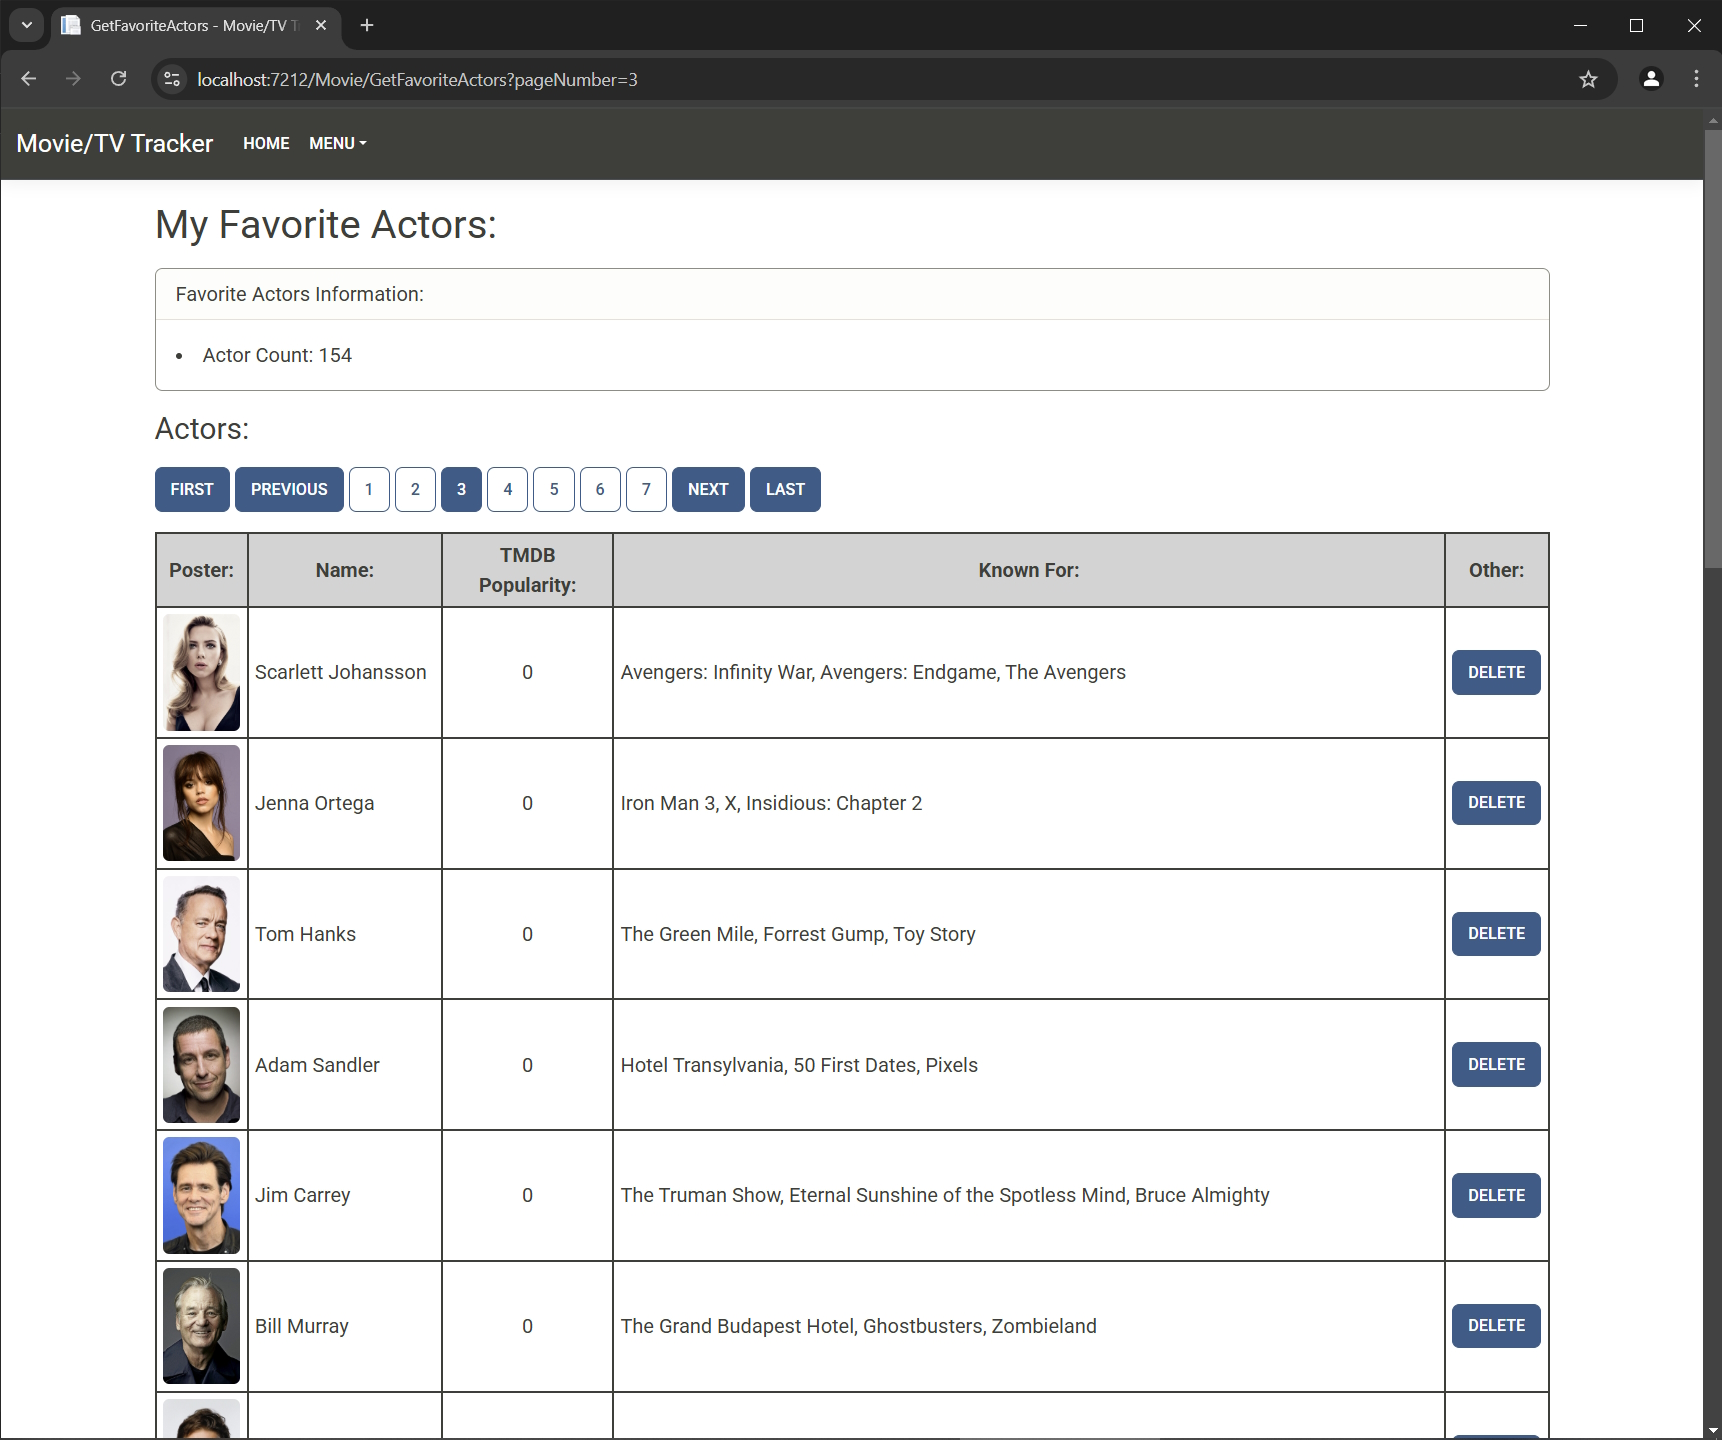
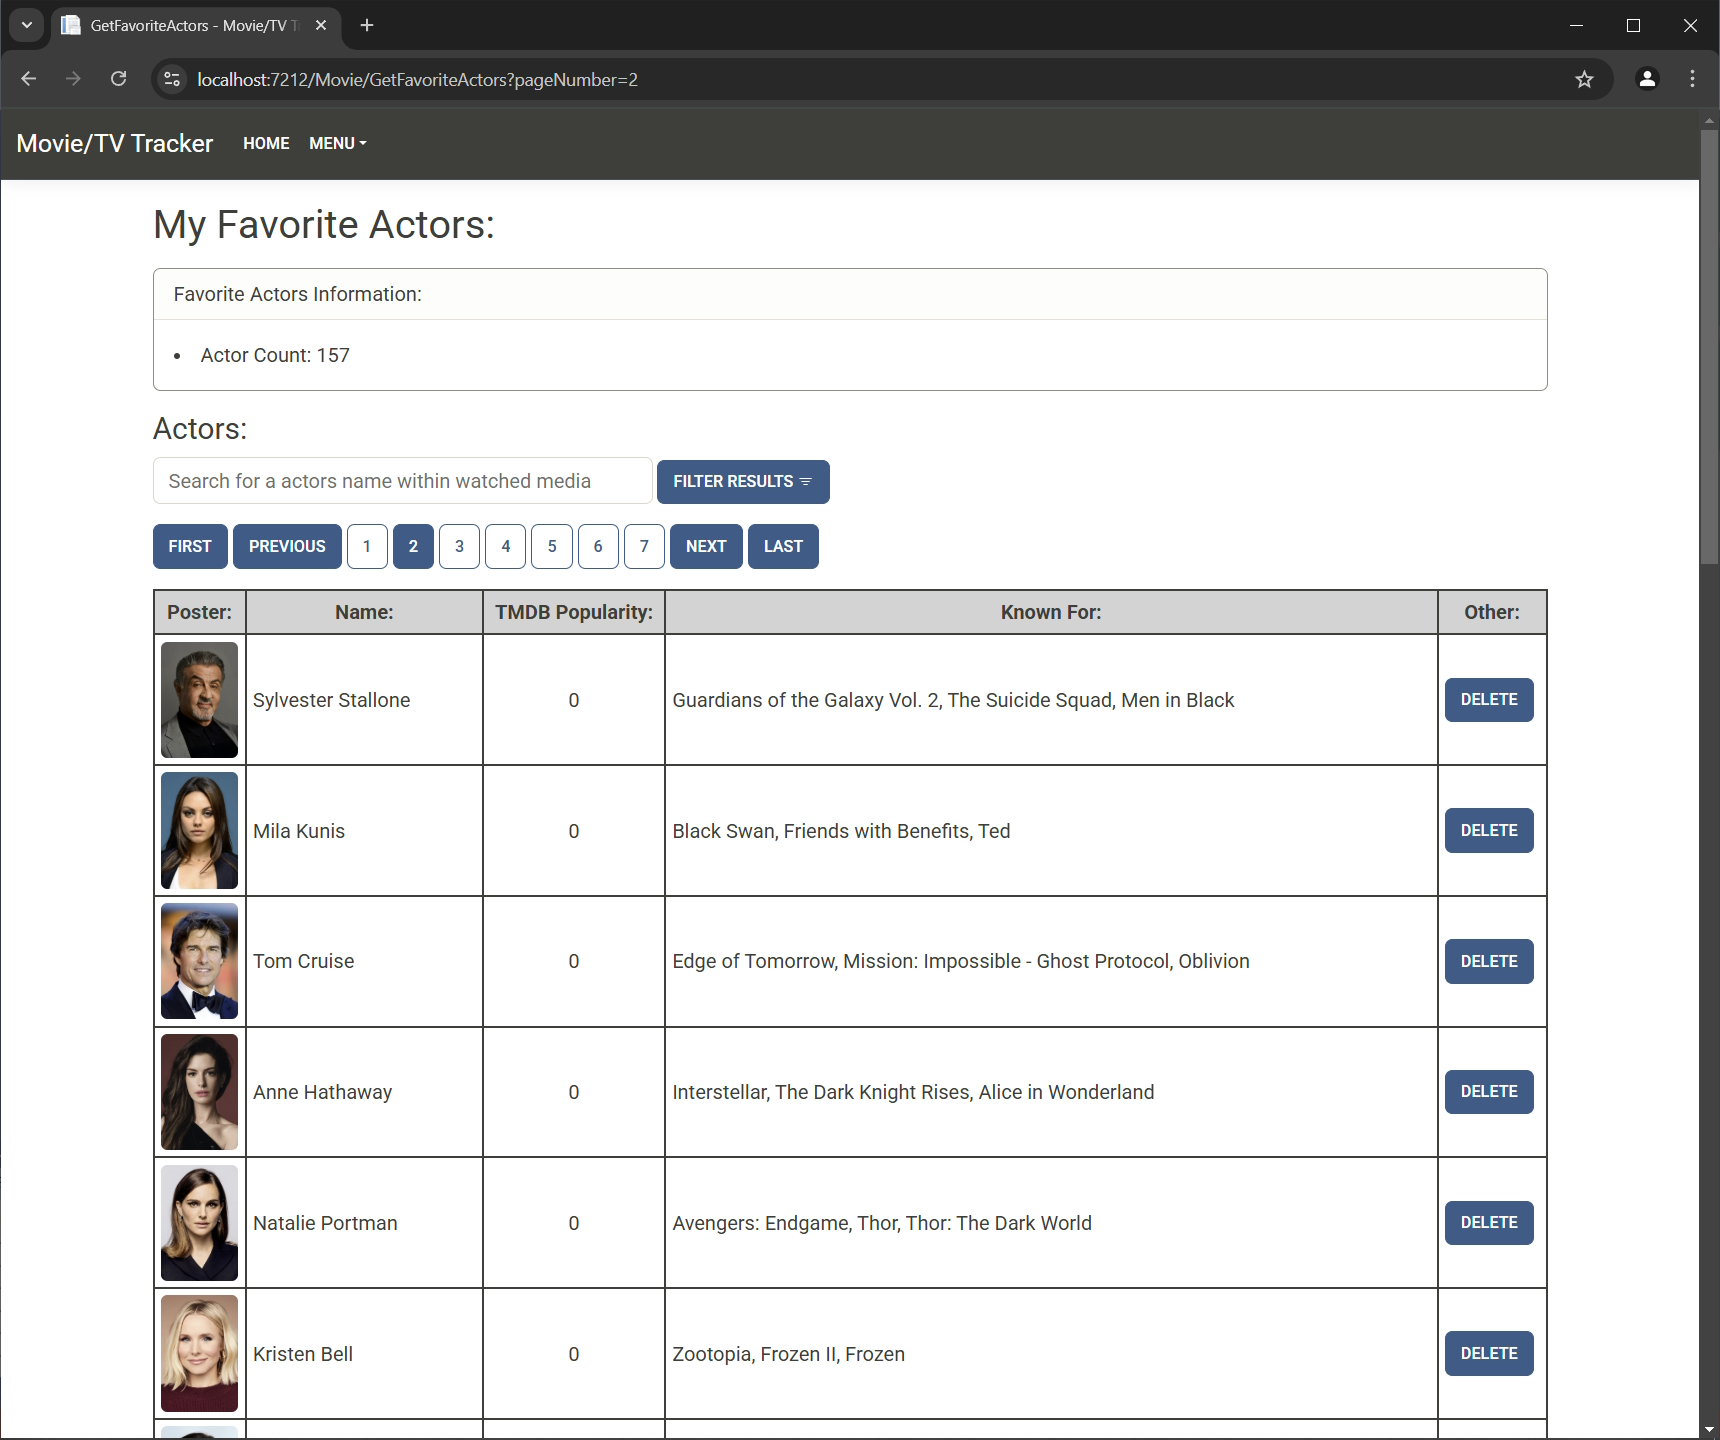
Actor results can now be filtered by a keyword input by the user.  Updated images and ReadMe.Md.  Removed link to video as its now out of date design wise.

diff --git a/MovieTvTracker.Web/Controllers/MovieController.cs b/MovieTvTracker.Web/Controllers/MovieController.cs
@@ -143,6 +143,7 @@ namespace MovieTvTracker.Web.Controllers
         /// Process all results in the 'WatchedMedia' table that match film content, paginate the content to fit the chosen pageSize and maintain performance.  Filter results by a keyword provided by the user
         /// </summary>
         /// <param name="pageNumber"></param>
+        /// <param name="media"></param>
         /// <returns></returns>
         /// <exception cref="Exception"></exception>
         public async Task<IActionResult> GetWatchedMediaFilm(int? pageNumber, Media media)
@@ -184,9 +185,10 @@ namespace MovieTvTracker.Web.Controllers
         }
 
         /// <summary>
-        /// Process all results in the 'WatchedMedia' table that match TV content, paginate the content to fit the chosen pageSize and maintain performance.
+        /// Process all results in the 'WatchedMedia' table that match TV content, paginate the content to fit the chosen pageSize and maintain performance.  Filter results by a keyword provided by the user
         /// </summary>
         /// <param name="pageNumber"></param>
+        /// <param name="media"></param>
         /// <returns></returns>
         /// <exception cref="Exception"></exception>
         public async Task<IActionResult> GetWatchedMediaTv(int? pageNumber, Media media)
@@ -228,16 +230,28 @@ namespace MovieTvTracker.Web.Controllers
         }
 
         /// <summary>
-        /// Aquire favorite actor results from the database, run those results through TMDB API to get information and then feed that to the model that supplies the view.
+        /// Aquire favorite actor results from the database, run those results through TMDB API to get information and then feed that to the model that supplies the view.  Filter results by a keyword provided by the user
         /// </summary>
+        /// <param name="pageNumber"></param>
+        /// <param name="media"></param>
         /// <returns></returns>
-        [HttpGet]
-        public async Task<IActionResult> GetFavoriteActors(int? pageNumber)
+        /// <exception cref="Exception"></exception>
+        public async Task<IActionResult> GetFavoriteActors(int? pageNumber, Media media)
         {
-            IMedia media = new Media();
-
             media.FavoriteActorTotalCount = await _db.FavoriteActor.CountAsync(); ;
-            media.PaginatedFavoriteActorList = await PaginatedList<FavoriteActor>.CreateAsync(_db.FavoriteActor, pageNumber ?? 1, _pageSize);
+
+            if (!string.IsNullOrEmpty(media.Keyword))
+            {
+                // Aquire all the film TMDB ID values that match the provided keyword value
+                List<Int32> matchedKeywordResults = _tmdb.ConvertIdToTitleAndCheckForKeywordMatch(_db.FavoriteActor.Select(x => x.TMDBId).ToList(), media.Keyword, Caller.Actor);
+
+                // Only paginate through the keyword matched TMDB ID values
+                media.PaginatedFavoriteActorList = await PaginatedList<FavoriteActor>.CreateAsync(_db.FavoriteActor.Where(x => matchedKeywordResults.Contains(x.TMDBId)), pageNumber ?? 1, _pageSize);
+            }
+            else
+            {
+                media.PaginatedFavoriteActorList = await PaginatedList<FavoriteActor>.CreateAsync(_db.FavoriteActor, pageNumber ?? 1, _pageSize);
+            }
 
             try
             {

diff --git a/README.md b/README.md
@@ -26,6 +26,7 @@ The second part of this project (This Codebase) is a full-stack web application 
 - Display of data in a numeric or graph form on the users film/TV habits giving information such as most popular years, genres, decades as well as quantity of movies/TV watched.
 - Highlights movie/TV runtime, TMDB score/popularity in different colours to indicate there value (low, medium or high).
 - Filter by English or worldwide search results.
+- Filter watched media and actor results using a keyword search.
 
 Technologies / Principles Used:
 
@@ -64,12 +65,6 @@ Resources / Credits:
 - (Pagination) https://www.youtube.com/watch?v=md3W1Ccssg8&list=WL&index=21
 - (Pagination) https://www.youtube.com/watch?v=L9VtwtoLvy8&list=WL&index=20
 
-Video Demo:
-
-NOTE! - Video length is short due to 10mb limit on videos on GitHub
-
-https://github.com/user-attachments/assets/3e7a49fe-6452-428d-ab64-529a6e0c6b20
-
 Images:
 
 ![Alt text](Images/MovieTvTrackerStart1.jpg)
@@ -86,6 +81,7 @@ Images:
 ![Alt text](Images/MovieTvTrackerWatchedMedia2.jpg)
 ![Alt text](Images/MovieTvTrackerWatchedMedia3.jpg)
 ![Alt text](Images/MovieTvTrackerWatchedMedia4.jpg)
+![Alt text](Images/MovieTvTrackerWatchedMedia5.jpg)
 ![Alt text](Images/MovieTvTrackerFavoriteActor1.jpg)
 ![Alt text](Images/MovieTvTrackerEnd1.jpg)
 ![Alt text](Images/MovieTvTrackerEnd2.jpg)
